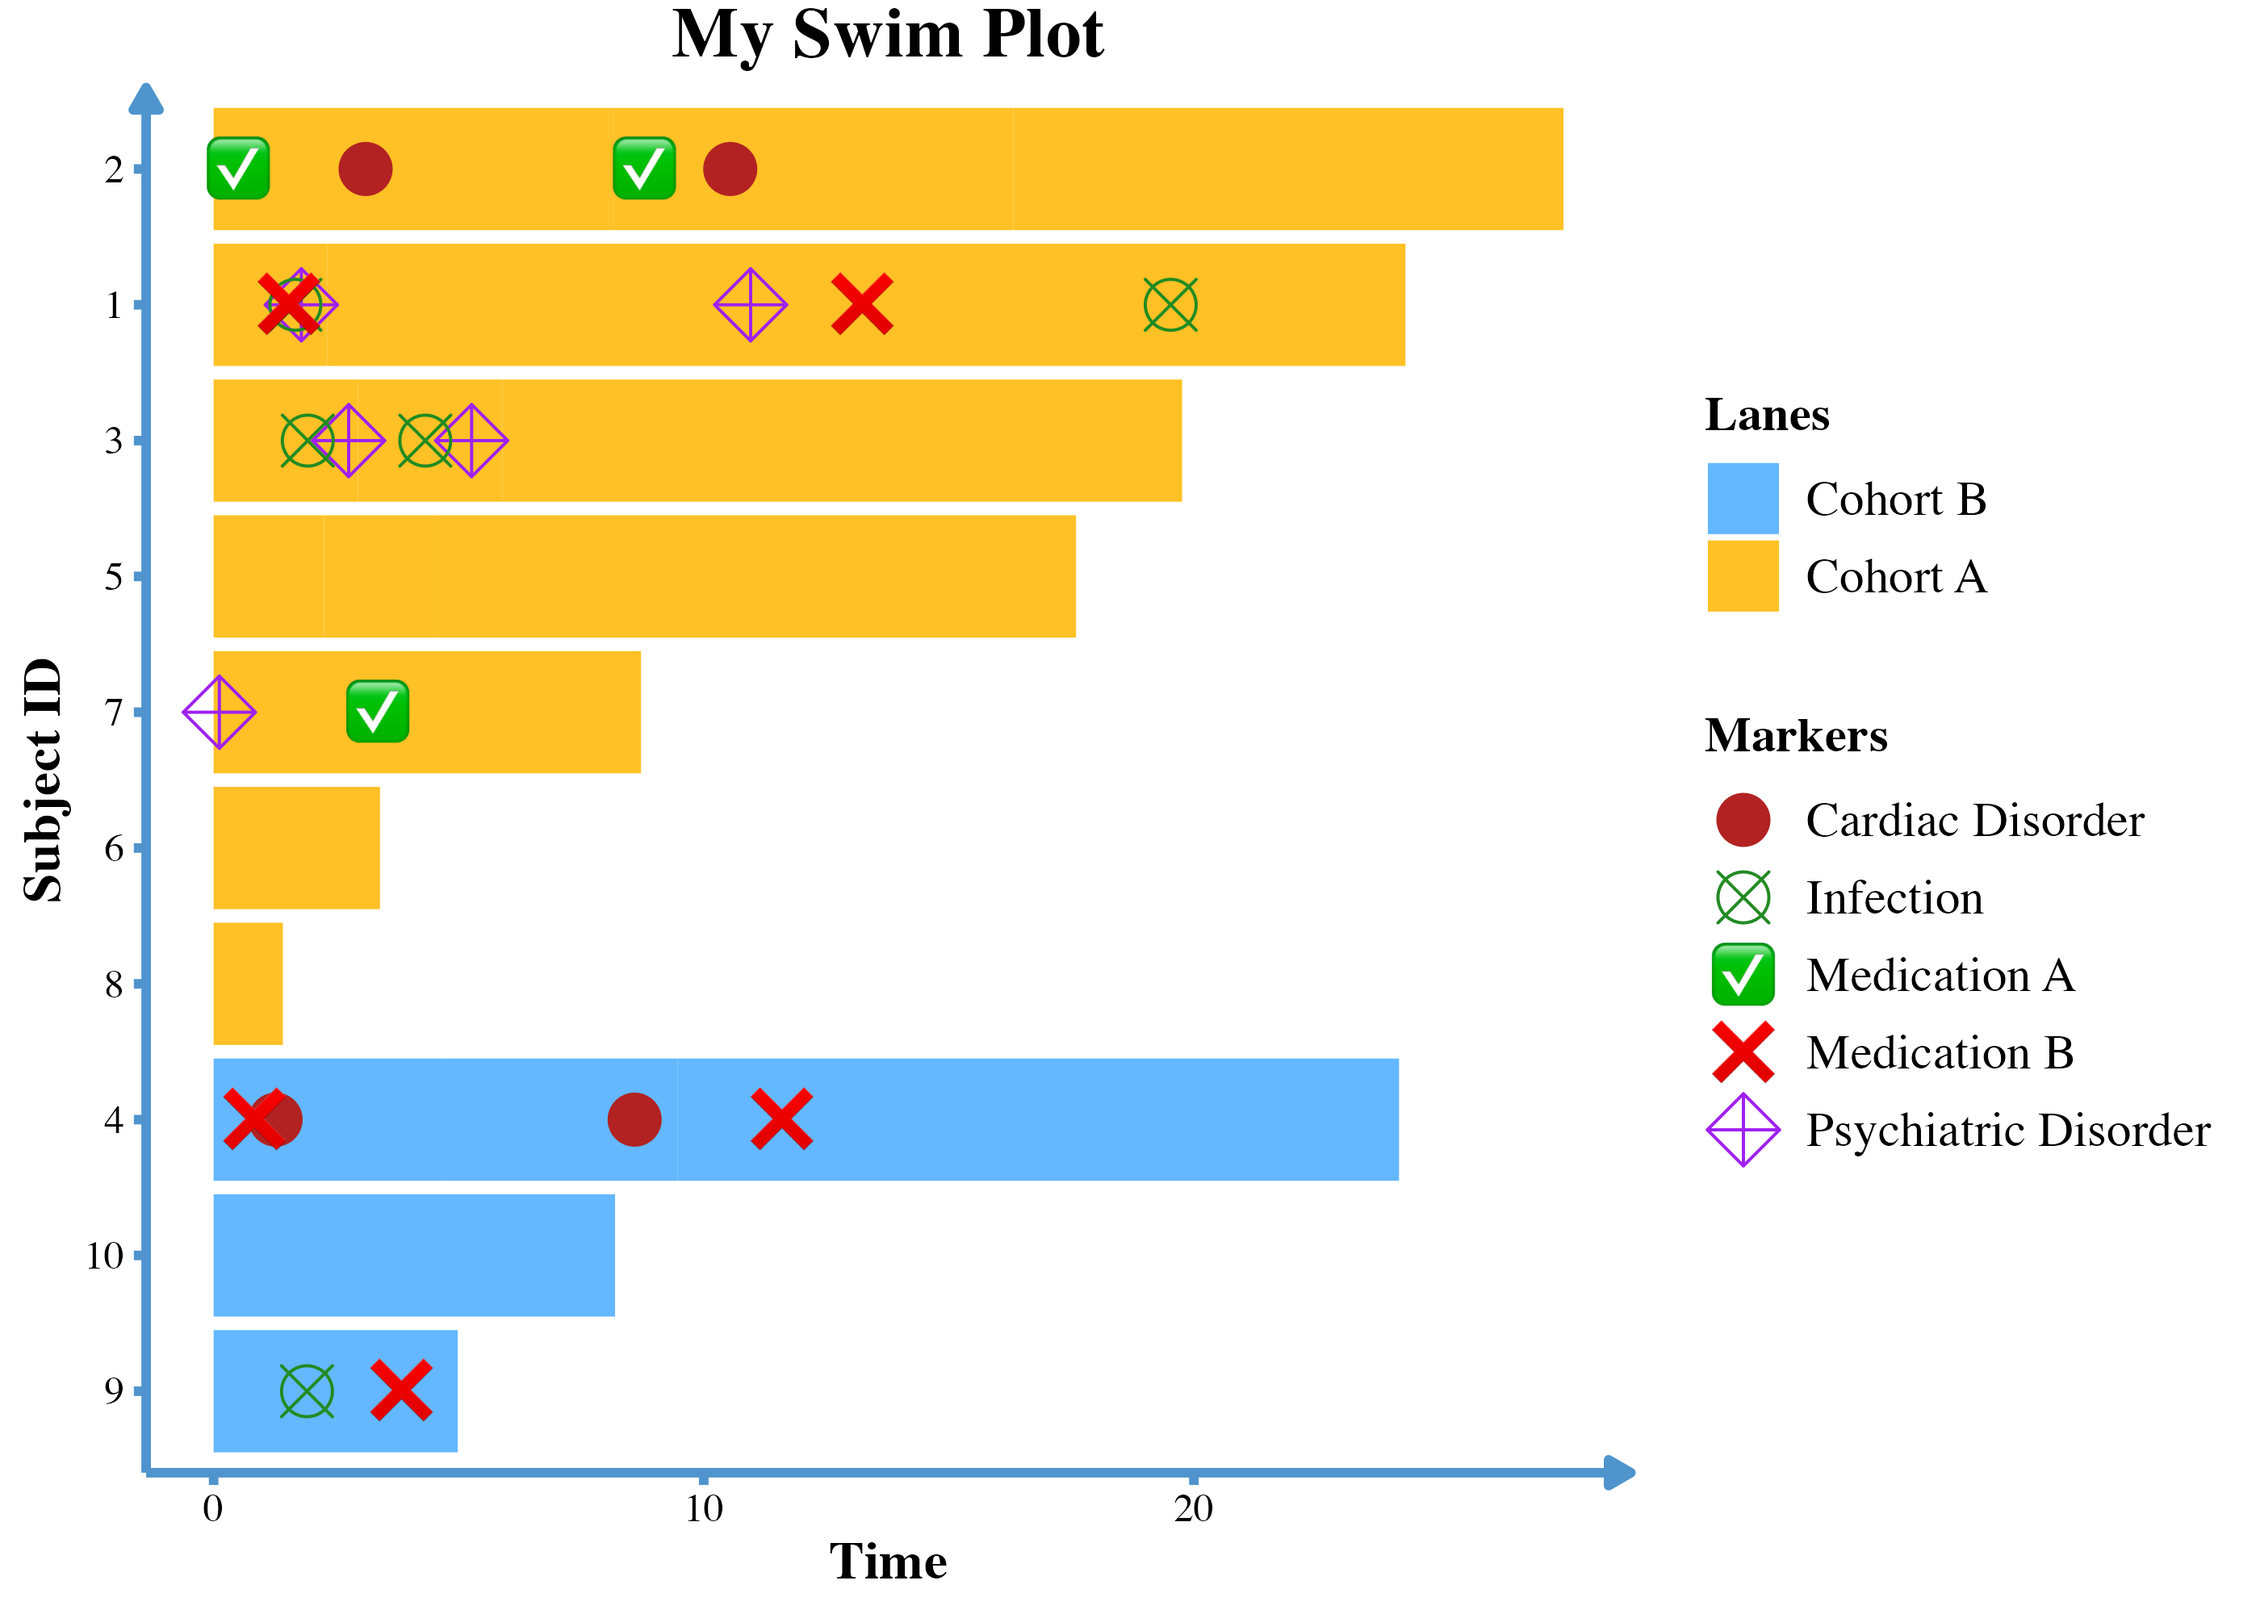
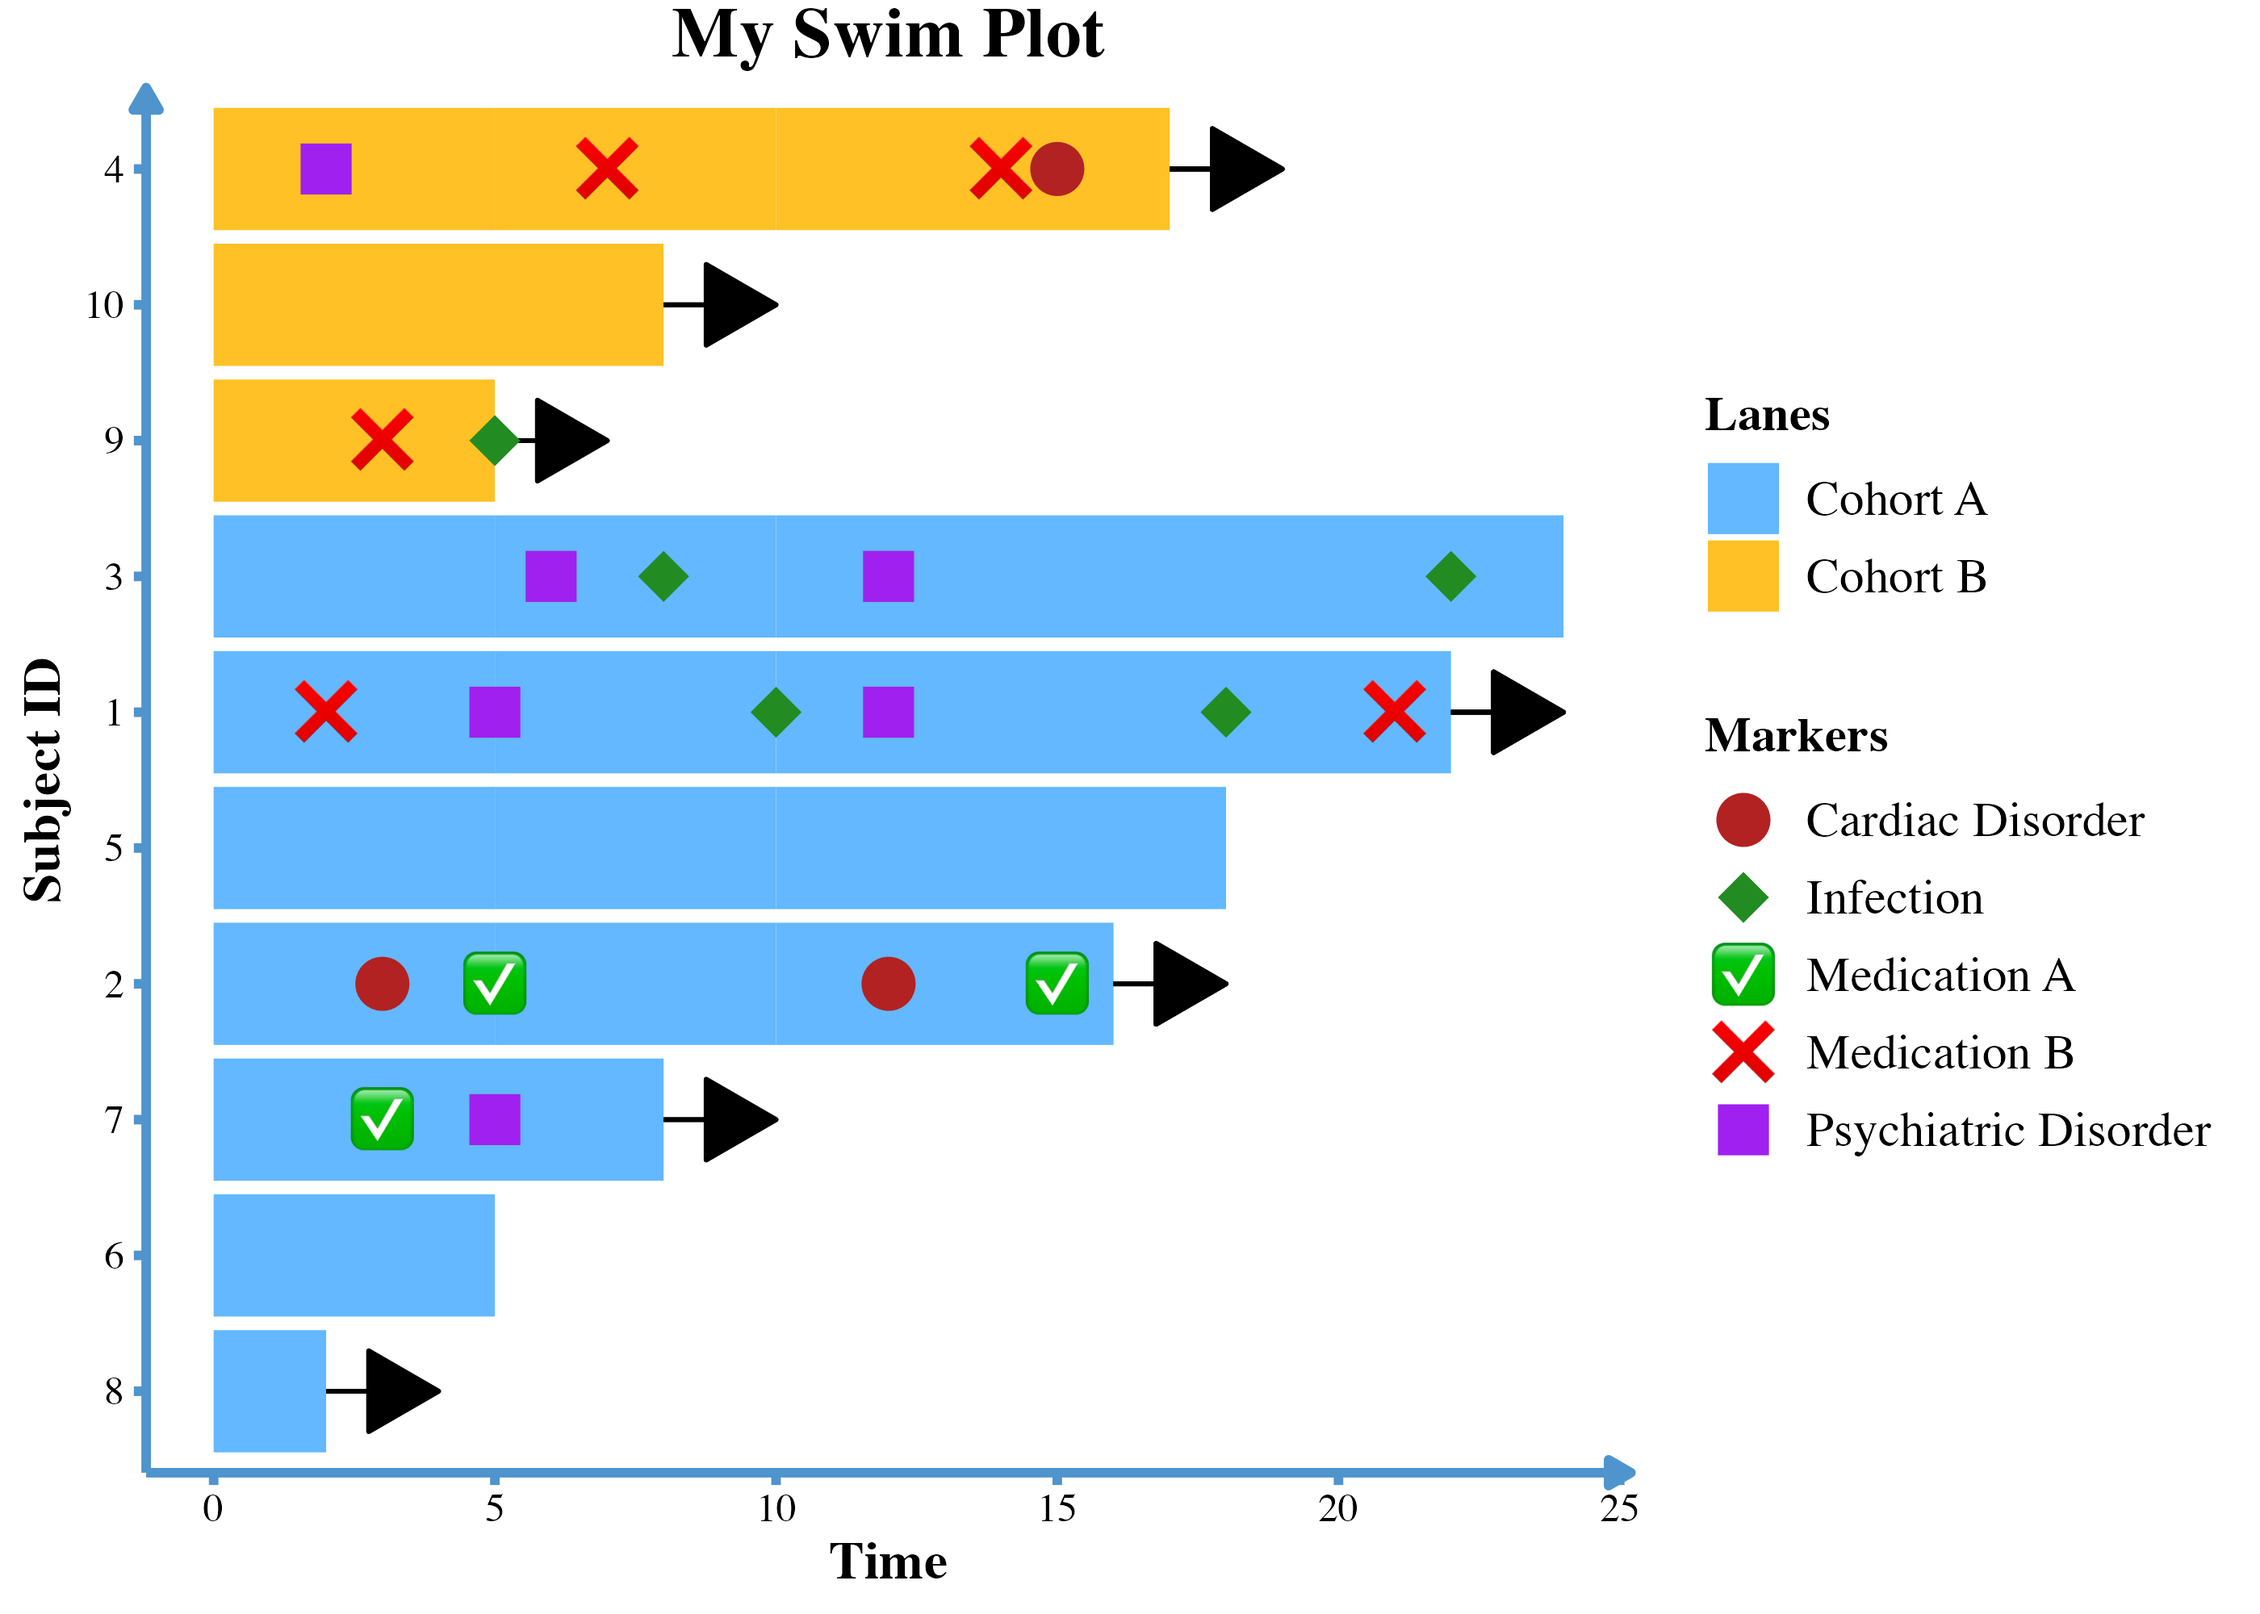
Update patient_data

diff --git a/README.md b/README.md
@@ -63,7 +63,8 @@ ggswim(
     x = value,
     y = subject_id,
     fill = cohort
-  )
+  ),
+  arrow = alive
 ) +
   add_marker(
     data = adverse_events,
@@ -93,7 +94,7 @@ ggswim(
   ) +
   ggplot2::scale_shape_manual(
     name = "Markers",
-    values = c(19, 13, 9)
+    values = c(19, 18, 15)
   ) +
   ggplot2::scale_fill_manual(
     name = "Lanes",
